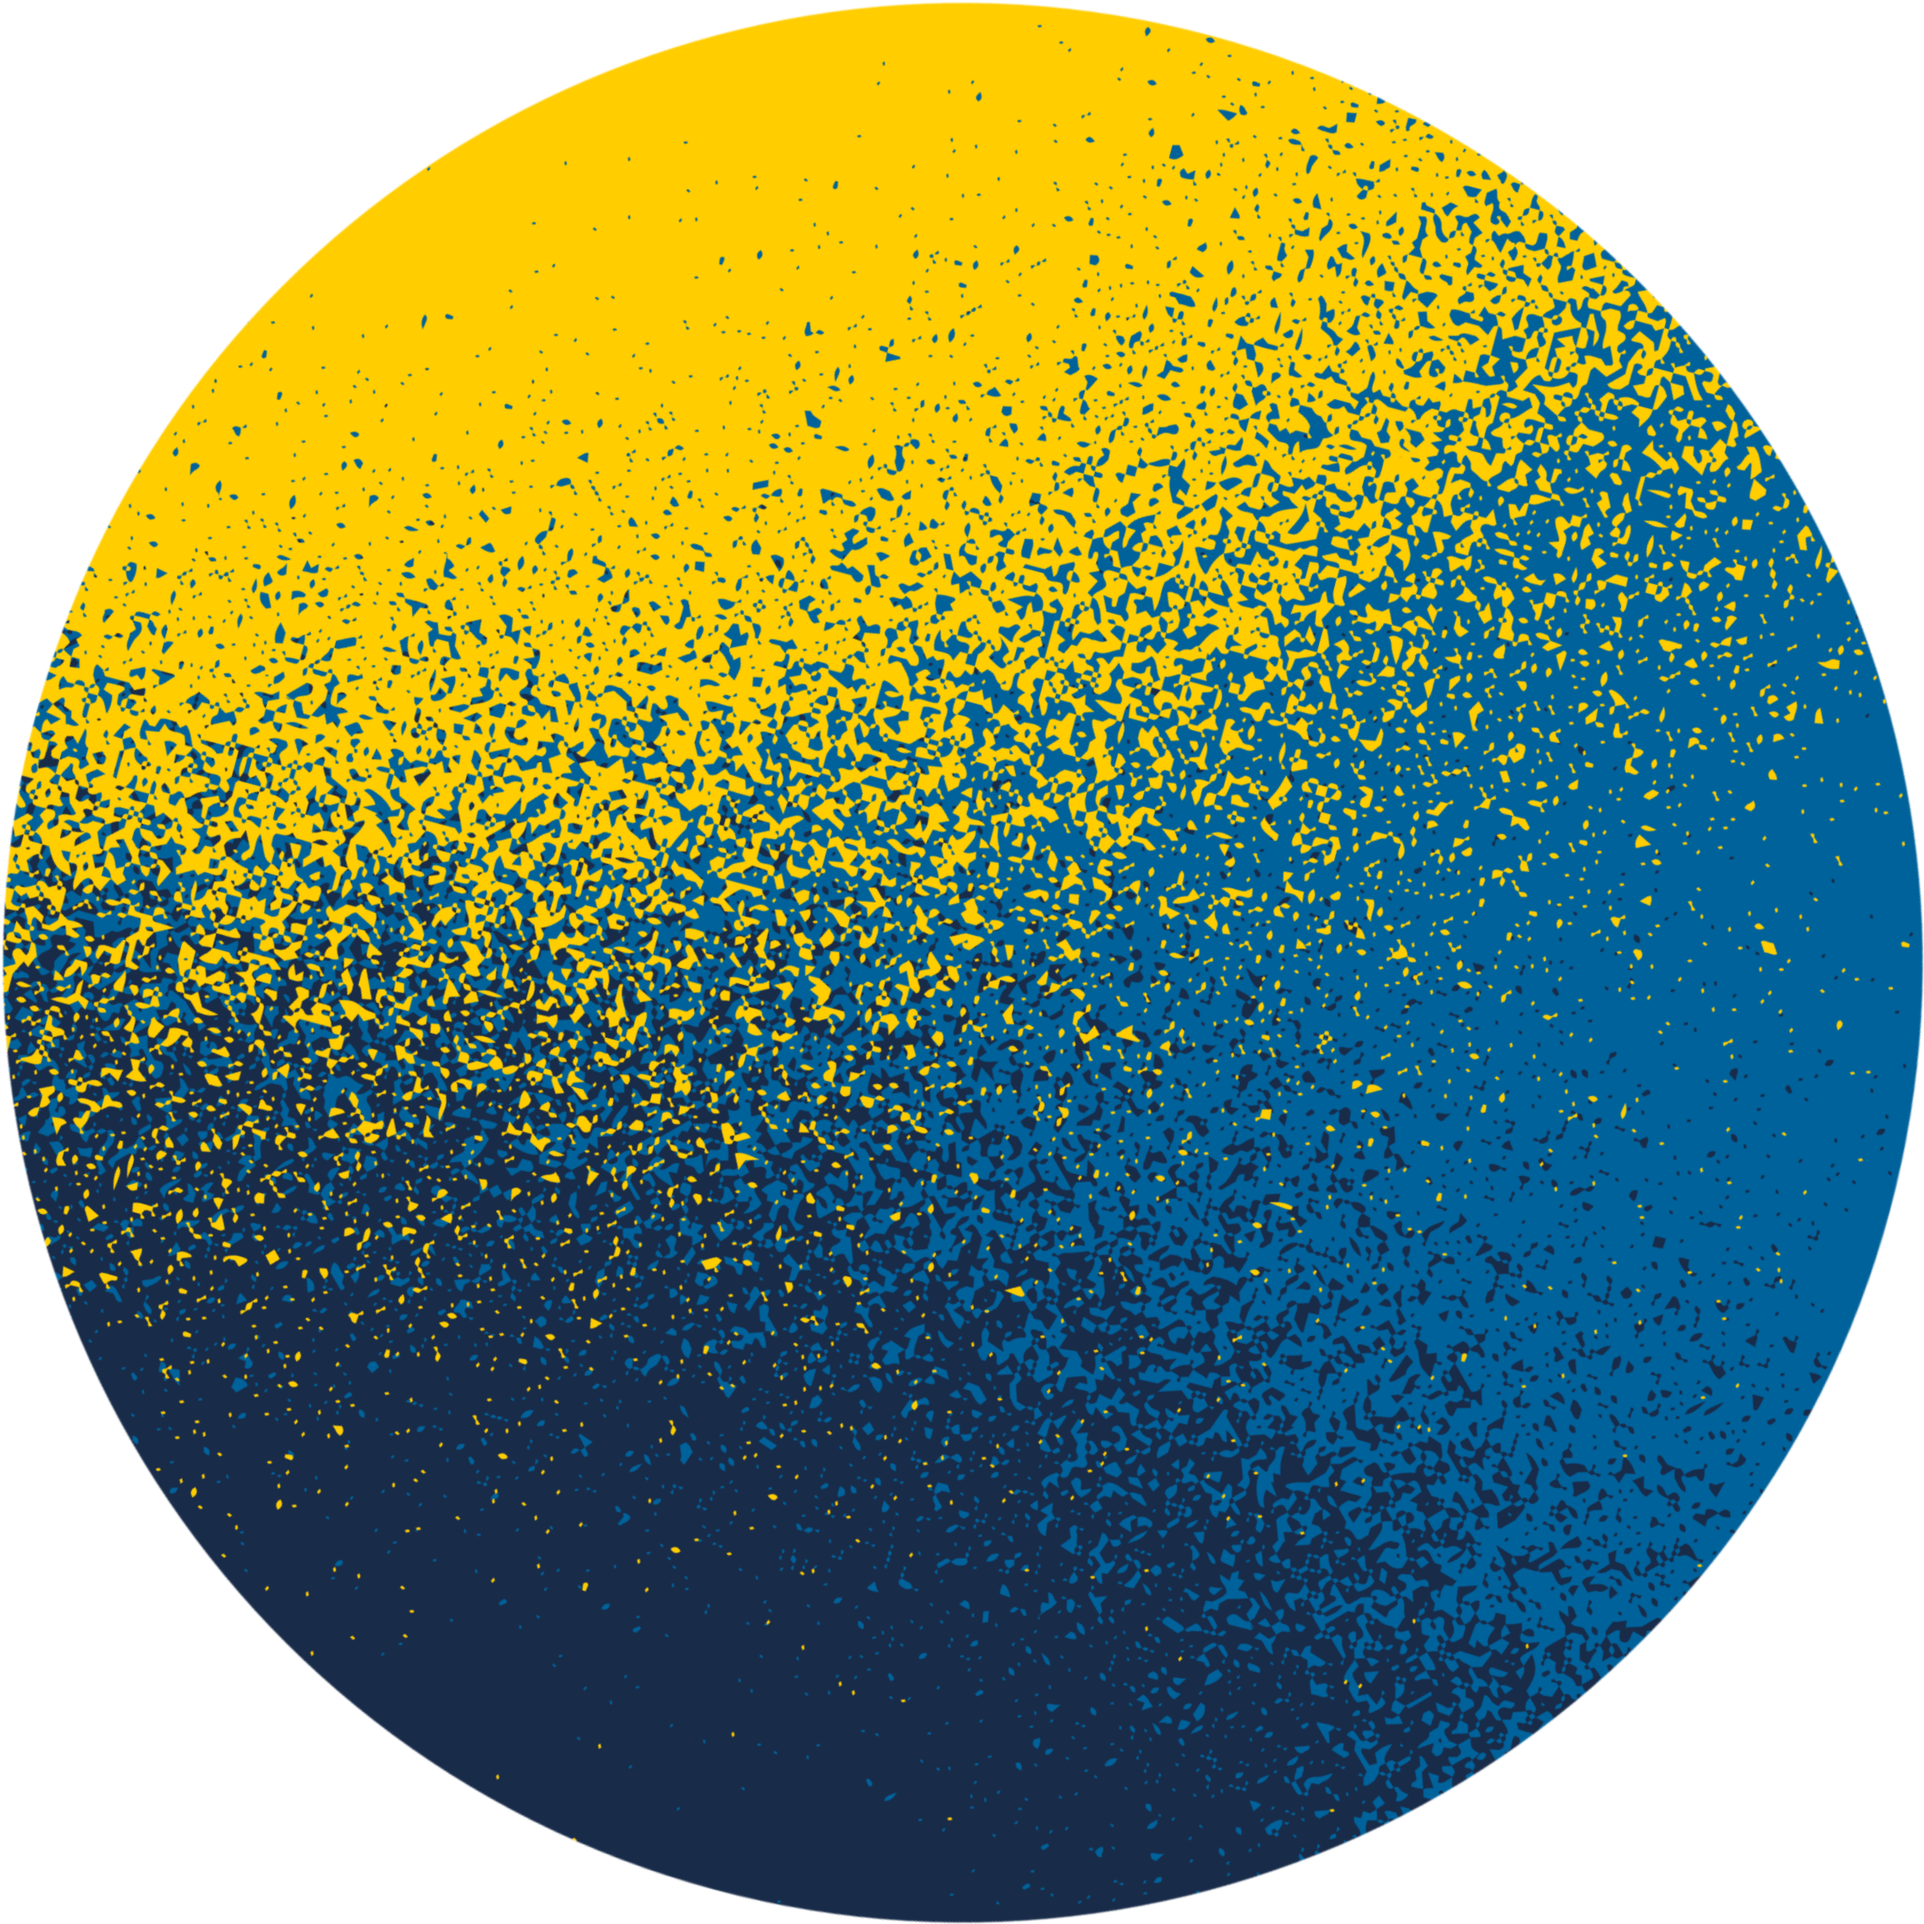
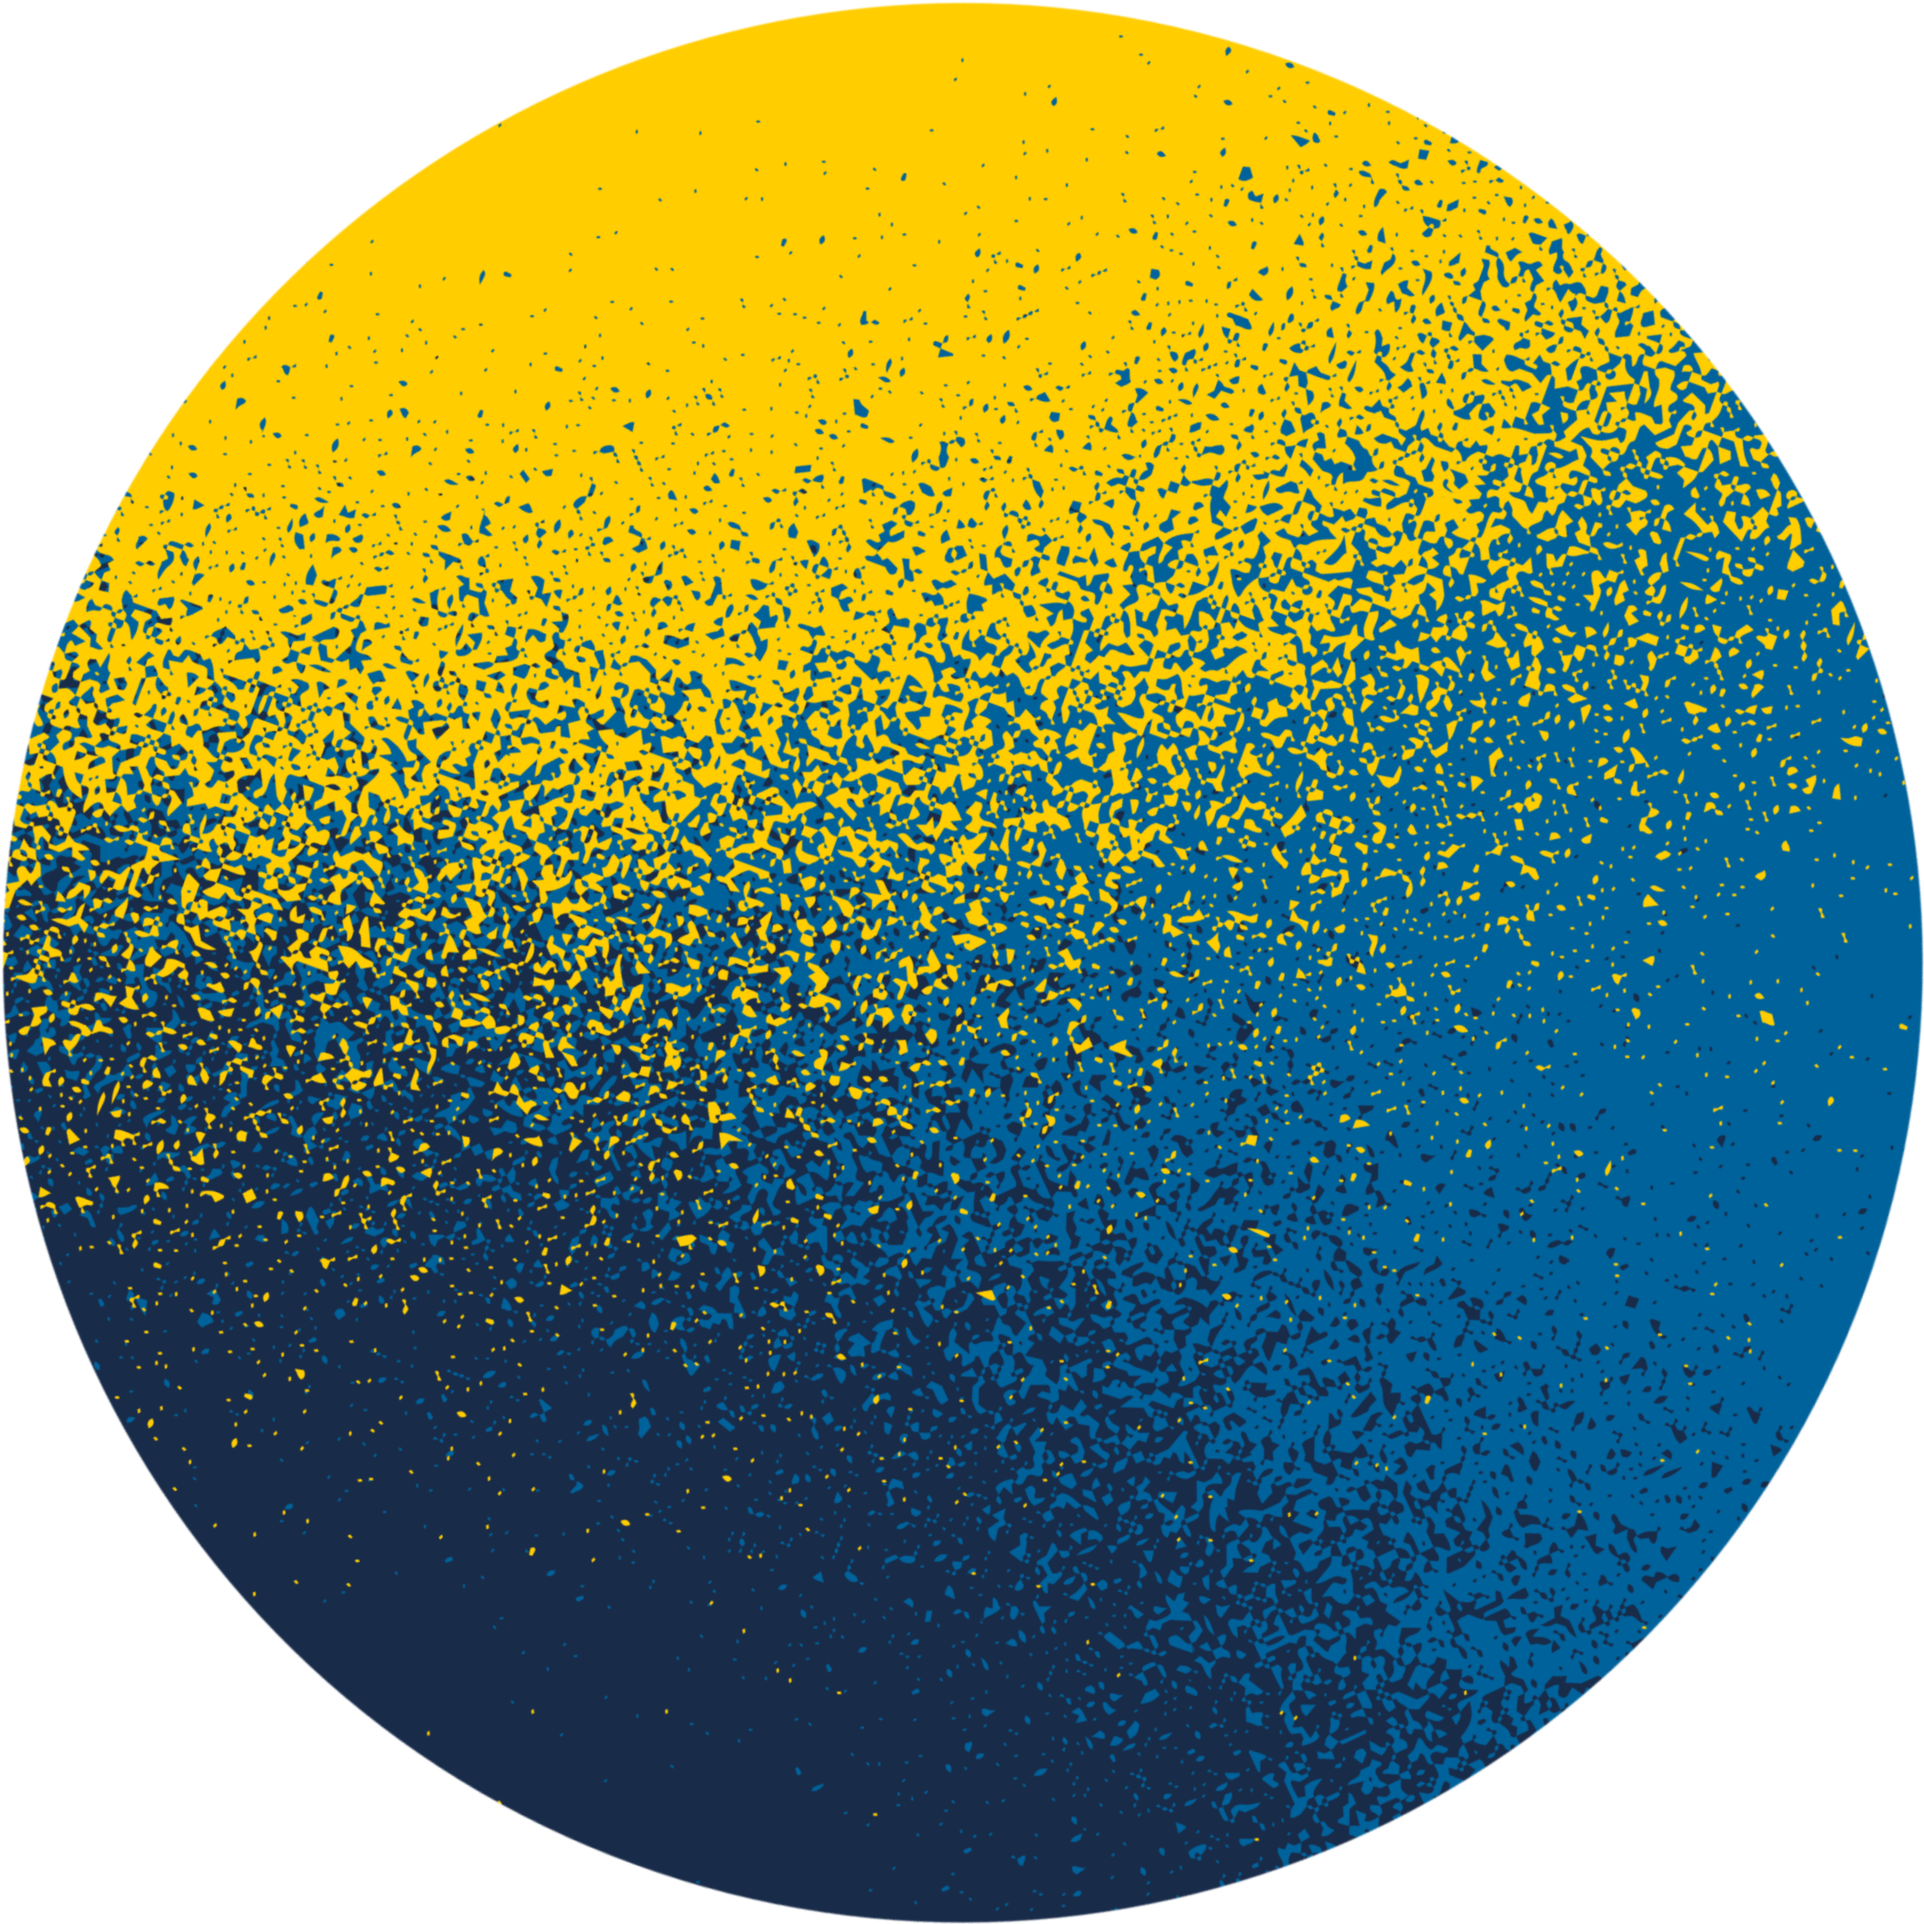
"tweaked the circle hopefully for the last time"

Changed region(s): [[0.0, 0.0312, 0.9683, 0.9683], [0.9059, 0.4686, 0.9371, 0.531]]

diff --git a/lib/ui/home/home.dart b/lib/ui/home/home.dart
@@ -189,7 +189,7 @@ class _HomeState extends State<Home> {
           ),
           Positioned(
             top: 1908,
-            left: -100,
+            left: -88,
             child: Image.asset(
               'assets/images/circles/real_circle_5.png',
               width: 197,
